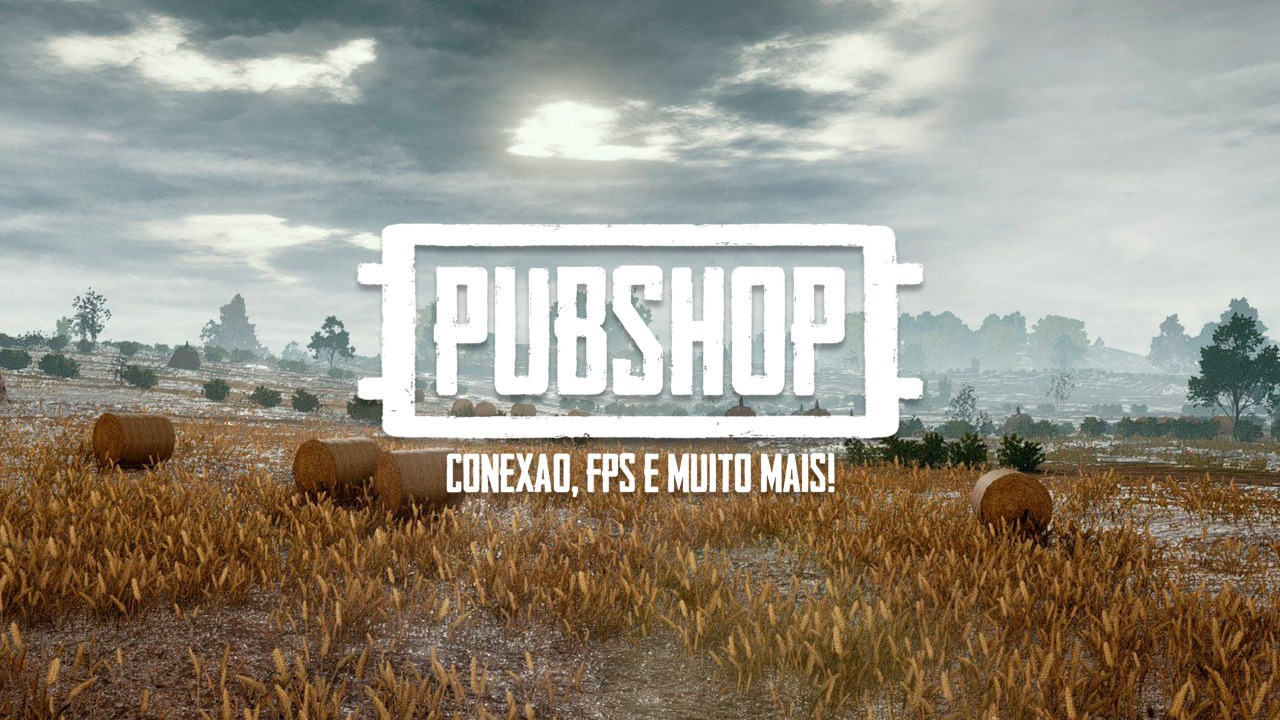
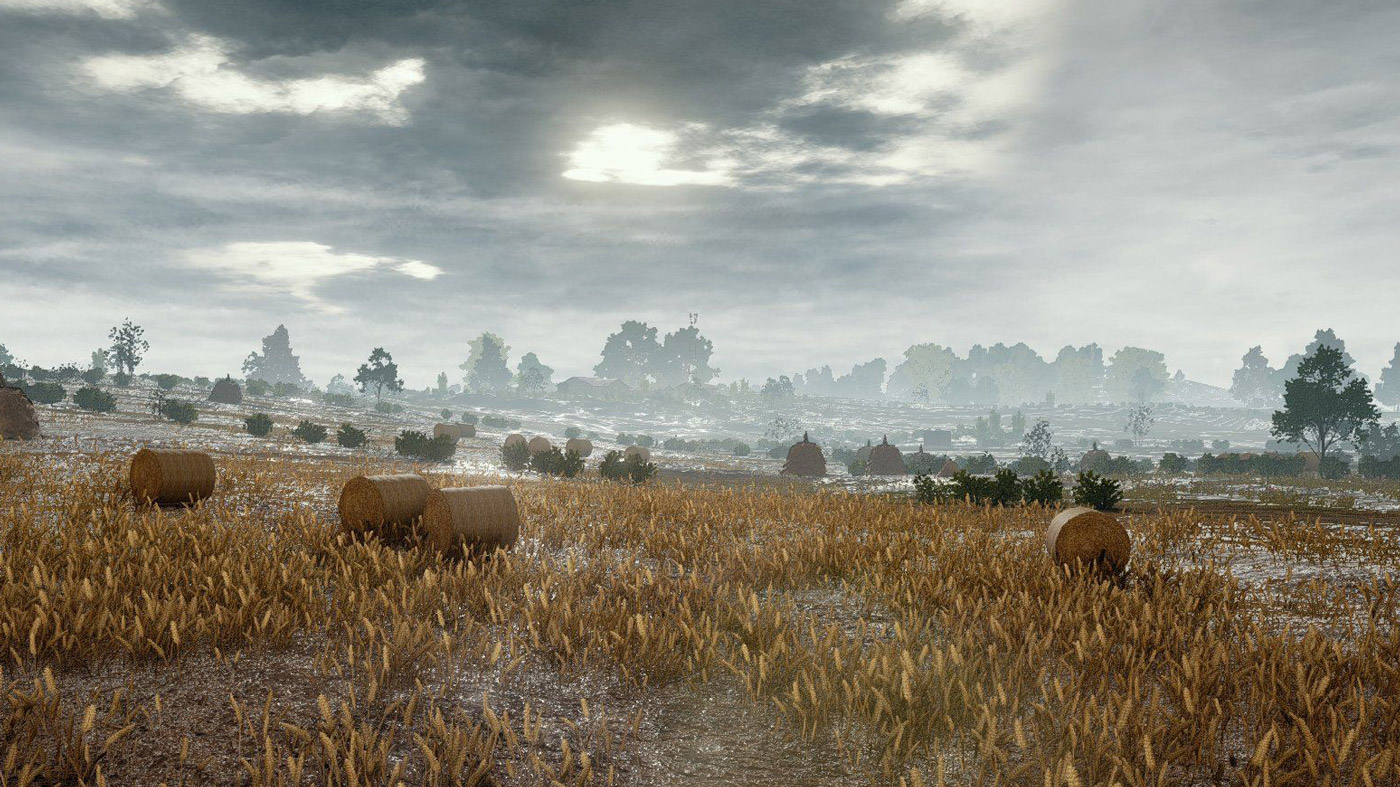
Update PUBG e MCShop

diff --git a/demo/PUBG/index.html b/demo/PUBG/index.html
@@ -105,6 +105,9 @@
                     <li><a href="#parceiros" data-hover="Parceiros">Parceiros</a></li>
                     <li><a href="#perguntas-frequentes" data-hover="FAQ">FAQ</a></li>
                     <li><a data-md="janelacontato" data-hover="Fale conosco">Fale conosco</a></li>
+                    
+                    <li><a data-hover="F" href="https://www.facebook.com/Pubshop-714797482186960/?modal=admin_todo_tour/" target="_blank"><i class="fa fa-facebook-square"></i></a></li>
+                    <li><a data-hover="T" href="https://twitter.com/Pubshop" target="_blank"><i class="fa fa-twitter-square"></i></a></li>
                 </ul>
             </div>
         </div> 
@@ -118,8 +121,7 @@
             <div class="container">
                 <div class="row text-center">
                     <div class="col-md-12">
-<!--                        <img class="img-responsive" src="img/logo.png" alt="Logo PUBG">-->
-                        <p>A logo vai aqui</p>
+                        <img class="img-responsive" src="img/logo.png" alt="Logo PUBG">
                     </div>
                 </div>
             </div>
@@ -499,10 +501,10 @@
                         <div class=box-faq data-aos="fade">
                             <label for="faq-1" class="etiqueta">
                                 <span class="ico"><i class="fa fa-lock" aria-hidden="true"></i></span>
-                                <span class="title">A loja é confiável?</span>
+                                <span class="title">A Loja é confiável?</span>
                             </label>
                             <p class="faq-desc">
-                                Sim. Oferecemos um atendimento todos os dias da semana via e-mail, e contamos com grandes youtubers do cenário que divulgam nossa loja.
+                                Sim. Oferecemos um atendimento todos os dias úteis da semana via e-mail e redes sociais, e contamos com grandes youtubers do cenário que divulgam nossa loja, confira os PARCEIROS!
                             </p>
                         </div>
                         
@@ -515,15 +517,19 @@
                                 <span class="title">Meu PC roda o PUBG?</span>
                             </label>
                             <p class="faq-desc">
-                               <b>Processador:</b> Intel Pentium D or AMD Athlon 64 (K8) 2.6 GHz
+                                Confira as configurações MÍNIMAS para rodar PUBG:<br/>
+                                <b>Sistema operacional:</b> Windows 7 64-bit ou versão mais recente<br/>
+                                <b>Processador:</b> Intel Core i3-4340 ou AMD FX-6300
                                 <br>
-                                <b>Memória RAM:</b> 2GB
+                                <b>Memória RAM:</b> 6GB
                                 <br>
-                                <b>Placa de Vídeo:</b> Intel HD Graphics or AMD (formerly ATI) Radeon HD Graphics
+                                <b>Placa de Vídeo:</b> nVidia GeForce GTX 660 2GB ou AMD Radeon HD 7850 2GB
                                 <br>
-                                <b>Onboard:</b> Nvidia GeForce 9600 GT or AMD Radeon HD 2400 with OpenGL 3.1
+                                <b>DirectX</b> atualizado na versão 11
                                 <br>
-                                <b>Espaço em disco:</b> 200Mb
+                                <b>Conexão constante</b> com a Internet
+                                <br>
+                                <b>Espaço em disco:</b> 30Gb
                             </p>
                         </div>
                         
@@ -533,10 +539,10 @@
                         <div class=box-faq data-aos="fade">
                             <label for="faq-6" class="etiqueta">
                                 <span class="ico"><i class="fa fa-server" aria-hidden="true"></i></span>
-                                <span class="title">Não estou conseguindo migrar minha conta. o que eu faço?</span>
+                                <span class="title">É necessário comprar o produto mais de uma vez?</span>
                             </label>
                             <p class="faq-desc">
-                               Em caso de dúvidas, dificuldades ou erros entre em contato imediatamente para que possamos lhe ajudar dá melhor forma possível.
+                               Não! ao comprar UMA VEZ o produto é seu para sempre, mesmo que formate o computador!
                             </p>
                         </div>
                     </div>
@@ -575,10 +581,10 @@
                         <div class=box-faq data-aos="fade">
                             <label for="faq-5" class="etiqueta">
                                 <span class="ico"><i class="fa fa-rocket" aria-hidden="true"></i></span>
-                                <span class="title">As contas tem garantia?</span>
+                                <span class="title">Os produtos realmente funcionam?</span>
                             </label>
                             <p class="faq-desc">
-                               Nossas contas são testadas mais de uma vez para termos certeza que está tudo nos conformes, porém não nos responsabilizamos por contas hackeadas ou quaisquer erros causados pelo cliente ou terceiros.
+                               Acreditamos que, assim como nós, os Youtubers que divulgam nossos produtos querem o melhor pro público, eles testaram e aprovaram nossos produtos, teste e aprove você também!
                             </p>
                         </div>
                     </div>
@@ -596,15 +602,15 @@
         <aside class="md-box" data-id="janela1">
             <div class="prod-opcoes col-xs-12 col-md-8 col-md-push-2">
                 <p data-close class="prod-opcoes-close">X</p>
-                <p class="titulo no-space">Produto 1</p>
+                <p class="titulo no-space">Regedit</p>
                 <div>
                     <div class="col-sm-4">
                         <div class="prod-opcoes-box prod-opcoes-box-space">
                             <p class="sub-titulo">Opção 1</p>
                             <p class="prod-opcoes-logo"><img src="img/mercadopago.png" alt="logo mercado pago"></p>
                             
-                            <!-- Link de Compra opção 1 -->
-                            <a class="botao-mercadopago" href="http://mpago.la/GOZS" target="_blank">
+<!-- Link de Compra REGEDIT -->
+                            <a class="botao-mercadopago" href="https://www.mercadopago.com/mlb/checkout/start?pref_id=327984002-faad1eea-78b8-4a49-8b7b-3ff8f590f3d4" target="_blank">
                                 Comprar
                             </a>
                             
@@ -615,8 +621,8 @@
                             <p class="sub-titulo">Opção 2</p>
                             <p class="prod-opcoes-logo"><img src="img/pagseguro.png"></p> 
                             
-                            <!-- Link de Compra opção 1 -->
-                            <a class="botao-pagseguro" href="https://pag.ae/bdzSHJl" target="_blank">
+<!-- Link de Compra REGEDIT -->
+                            <a class="botao-pagseguro" href="https://pag.ae/7UdEXqGQu" target="_blank">
                                 Comprar
                             </a>
                             
@@ -627,8 +633,8 @@
                             <p class="sub-titulo">Opção 3</p>
                             <p class="prod-opcoes-logo"><img src="img/paypal.png" alt="logo Paypal"></p>
                             
-                            <!-- Link de Compra opção 1 -->
-                            <a class="botao-mercadopago" href="https://www.paypal.com/cgi-bin/webscr?cmd=_s-xclick&hosted_button_id=TLZYUGHLC5GNN" target="_blank">
+<!-- Link de Compra REGEDIT -->
+                            <a class="botao-mercadopago" href="https://www.paypal.com/cgi-bin/webscr?cmd=_xclick&business=XWHH87CUR7SEC&lc=BR&item_name=REGEDIT&amount=59%2e99&currency_code=BRL&button_subtype=services&bn=PP%2dBuyNowBF%3abtn_buynow_SM%2egif%3aNonHosted" target="_blank">
                                 Comprar
                             </a>
                             
@@ -645,15 +651,15 @@
         <aside class="md-box" data-id="janela2">
             <div class="prod-opcoes col-xs-12 col-md-8 col-md-push-2">
                 <p data-close class="prod-opcoes-close">X</p>
-                <p class="titulo no-space">Produto 2</p>
+                <p class="titulo no-space">FPS Booster</p>
                 <div>
                     <div class="col-sm-4">
                         <div class="prod-opcoes-box prod-opcoes-box-space">
                             <p class="sub-titulo">Opção 1</p>
                             <p class="prod-opcoes-logo"><img src="img/mercadopago.png" alt="logo mercado pago"></p>
                             
-                            <!-- Link de Compra opção 2 -->
-                            <a class="botao-mercadopago" href="http://mpago.la/GOZS" target="_blank">
+<!-- Link de Compra FPS BOOST -->
+                            <a class="botao-mercadopago" href="https://www.mercadopago.com/mlb/checkout/start?pref_id=327984002-1fb67728-b406-474b-a55b-862f4adcd300" target="_blank">
                                 Comprar
                             </a>
                             
@@ -664,8 +670,8 @@
                             <p class="sub-titulo">Opção 2</p>
                             <p class="prod-opcoes-logo"><img src="img/pagseguro.png"></p> 
                             
-                            <!-- Link de Compra opção 2 -->
-                            <a class="botao-pagseguro" href="https://pag.ae/bdzSHJl" target="_blank">
+<!-- Link de Compra FPS BOOST -->
+                            <a class="botao-pagseguro" href="https://pag.ae/7UdEXf-Ep" target="_blank">
                                 Comprar
                             </a>
                             
@@ -676,8 +682,8 @@
                             <p class="sub-titulo">Opção 3</p>
                             <p class="prod-opcoes-logo"><img src="img/paypal.png" alt="logo Paypal"></p>
                             
-                            <!-- Link de Compra opção 2 -->
-                            <a class="botao-mercadopago" href="https://www.paypal.com/cgi-bin/webscr?cmd=_s-xclick&hosted_button_id=TLZYUGHLC5GNN" target="_blank">
+<!-- Link de Compra FPS BOOST -->
+                            <a class="botao-mercadopago" href="https://www.paypal.com/cgi-bin/webscr?cmd=_xclick&business=XWHH87CUR7SEC&lc=BR&item_name=FPS%20BOOSTER&amount=49%2e99&currency_code=BRL&button_subtype=services&bn=PP%2dBuyNowBF%3abtn_buynow_SM%2egif%3aNonHosted" target="_blank">
                                 Comprar
                             </a>
                             
@@ -696,7 +702,7 @@
             <div class="prod-opcoes form-contato col-xs-12">
                 <p data-close class="prod-opcoes-close">X</p>
                 <div>
-                    <iframe src="https://docs.google.com/forms/d/e/1FAIpQLSfn0xdFrVw5B695zHIeDrhajQpzNxWEsjWcjlkGihhe0VSKmg/viewform?embedded=true" width="100%" frameborder="0" marginheight="0" marginwidth="0" style="height: 70vh">Carregando…</iframe>
+                    <iframe src="https://docs.google.com/forms/u/2/d/1xmJ-T8Bgu7EQ4ThRKHs2Kp7X6u-2nNaO0l0zMgXVWOs/viewform?embedded=true" width="100%" frameborder="0" marginheight="0" marginwidth="0" style="height: 70vh">Carregando…</iframe>
                 </div>
             </div>
         </aside>

diff --git a/demo/MCShop/index.html b/demo/MCShop/index.html
@@ -138,36 +138,9 @@
                     <h2 class="titulo compras">Vamos as compras!</h2>
                     <p class="promo-inauguracao">Promoção de inauguração!</p>
 
-                    <!-- Coluna 1
-                    –––––––––––––––––––––––––––––––––––––––––––––––––– -->
-                    <div class="col-sm-6 col-md-offset-1 col-md-5">
-                        <div class="box-produto"><!-- use "gold-box" para destacar -->
-                            <div class="prod-header produto-1"> <!-- use "gold-destaque" para destacar -->
-                                <div class="selo hidden">
-                                    <div class="selo-nome">PROMO</div>
-                                </div>
-                            </div>
-                            <div class="vantagens">
-                                <p class="destaque">Full Acesso</p>
-                                <p class="promo-inauguracao hidden">Promoção de inauguração!</p>
-                                <p class="prod-preco-antigo" data-aos="fade"><span>de R$80,00</span> por</p> 
-                                <p class="prod-preco">R$59,99</p> 
-                                <p class="texto" data-aos="fade"><i class="fa fa-check"></i> 1 Conta somente SUA</p>
-                                <p class="texto" data-aos="fade"><i class="fa fa-check"></i> Sem banimentos</p>
-                                <p class="texto" data-aos="fade"><i class="fa fa-check"></i> É possível trocar skin</p>
-                                <p class="texto" data-aos="fade"><i class="fa fa-check"></i> É possível trocar senha</p>
-                                <p class="texto" data-aos="fade"><i class="fa fa-check"></i> É possível trocar nick</p>
-                                <p class="texto" data-aos="fade"><i class="fa fa-check"></i> É possível trocar e-mail</p>
-                                <p class="texto vant-space" data-aos="fade"><i class="fa fa-check"></i> É possível trocar perguntas de seguranças</p>
-                            </div>
-                            <!-- "data-md", define qual modal será aberto. -->
-                            <a data-md="janela1"><p class="prod-comprar">Comprar</p></a>
-                        </div>
-                    </div>
-
                     <!-- Coluna 2
                     –––––––––––––––––––––––––––––––––––––––––––––––––– -->
-                    <div class="col-sm-6 col-md-5">
+                    <div class="col-sm-6 col-md-offset-1 col-md-5">
                         <div class="box-produto"><!-- use "gold-box" para destacar -->
                             <div class="prod-header produto-2"> <!-- use "gold-destaque" para destacar -->
                                 <!-- para tirar o selo é só add a class "hidden" -->
@@ -190,6 +163,33 @@
                             </div>
                             <!-- "data-md", define qual modal será aberto. -->
                             <a data-md="janela2"><p class="prod-comprar">Comprar</p></a>
+                        </div>
+                    </div>
+                    
+                    <!-- Coluna 1
+                    –––––––––––––––––––––––––––––––––––––––––––––––––– -->
+                    <div class="col-sm-6 col-md-5">
+                        <div class="box-produto"><!-- use "gold-box" para destacar -->
+                            <div class="prod-header produto-1"> <!-- use "gold-destaque" para destacar -->
+                                <div class="selo hidden">
+                                    <div class="selo-nome">PROMO</div>
+                                </div>
+                            </div>
+                            <div class="vantagens">
+                                <p class="destaque">Full Acesso</p>
+                                <p class="promo-inauguracao hidden">Promoção de inauguração!</p>
+                                <p class="prod-preco-antigo" data-aos="fade"><span>de R$80,00</span> por</p> 
+                                <p class="prod-preco">R$59,99</p> 
+                                <p class="texto" data-aos="fade"><i class="fa fa-check"></i> 1 Conta somente SUA</p>
+                                <p class="texto" data-aos="fade"><i class="fa fa-check"></i> Sem banimentos</p>
+                                <p class="texto" data-aos="fade"><i class="fa fa-check"></i> É possível trocar skin</p>
+                                <p class="texto" data-aos="fade"><i class="fa fa-check"></i> É possível trocar senha</p>
+                                <p class="texto" data-aos="fade"><i class="fa fa-check"></i> É possível trocar nick</p>
+                                <p class="texto" data-aos="fade"><i class="fa fa-check"></i> É possível trocar e-mail</p>
+                                <p class="texto vant-space" data-aos="fade"><i class="fa fa-check"></i> É possível trocar perguntas de seguranças</p>
+                            </div>
+                            <!-- "data-md", define qual modal será aberto. -->
+                            <a data-md="janela1"><p class="prod-comprar">Comprar</p></a>
                         </div>
                     </div>
                     
